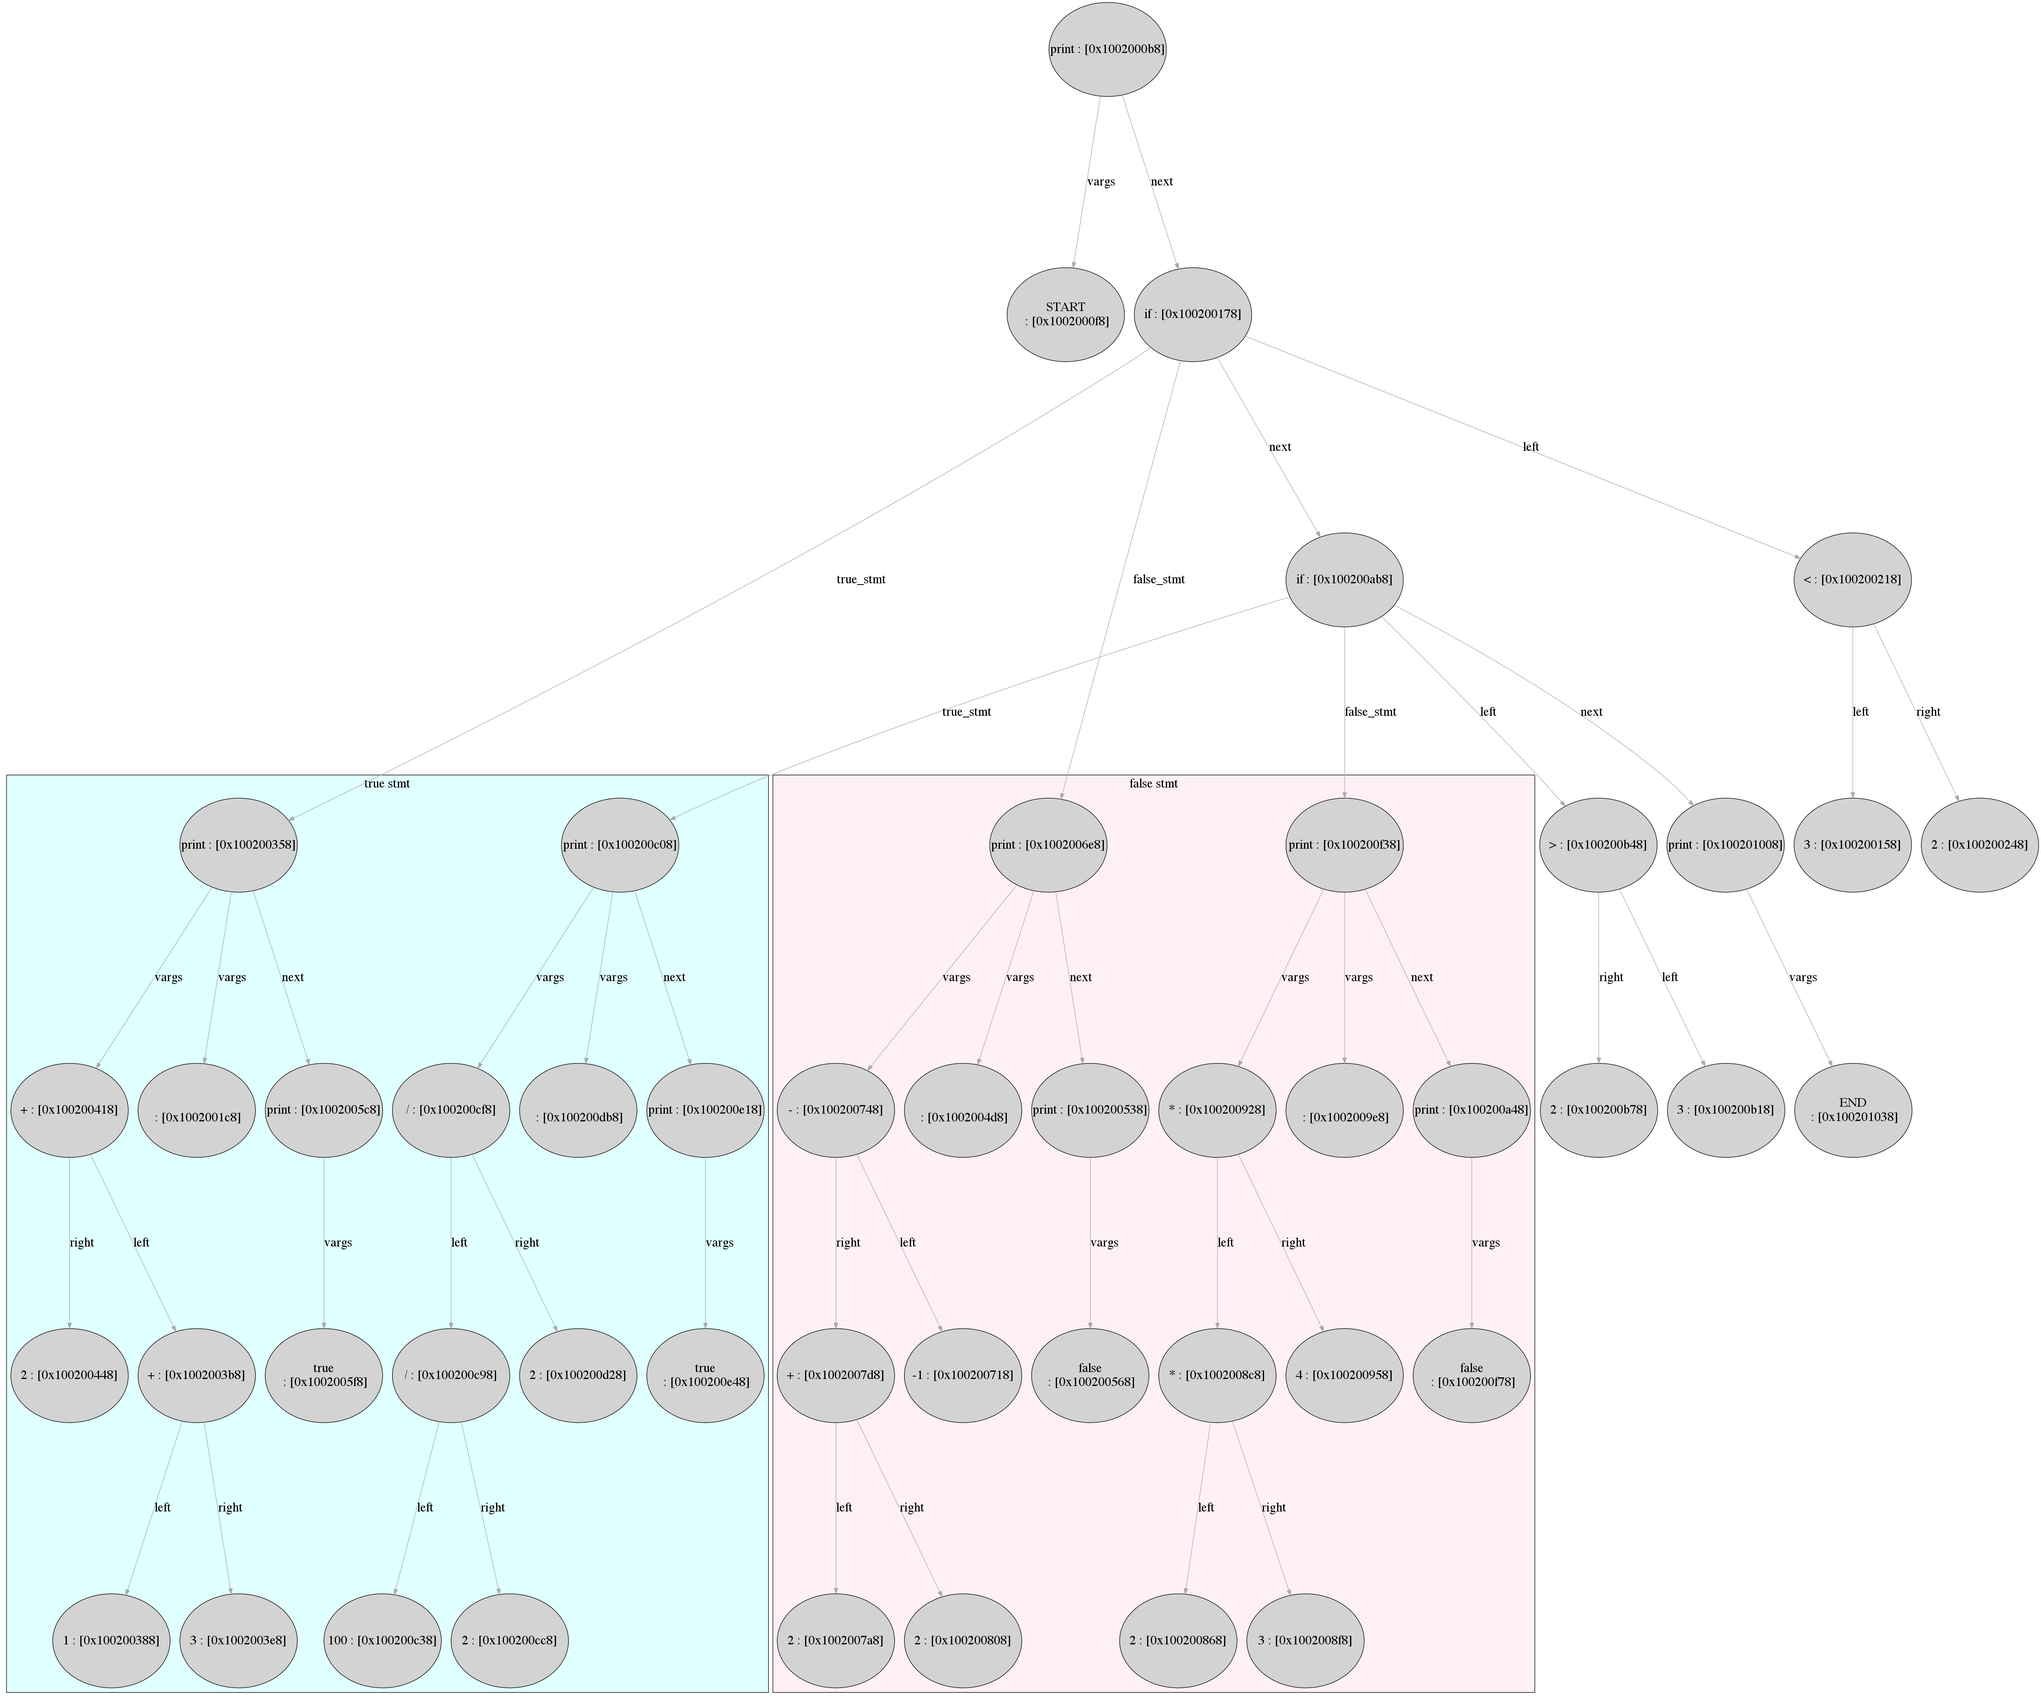
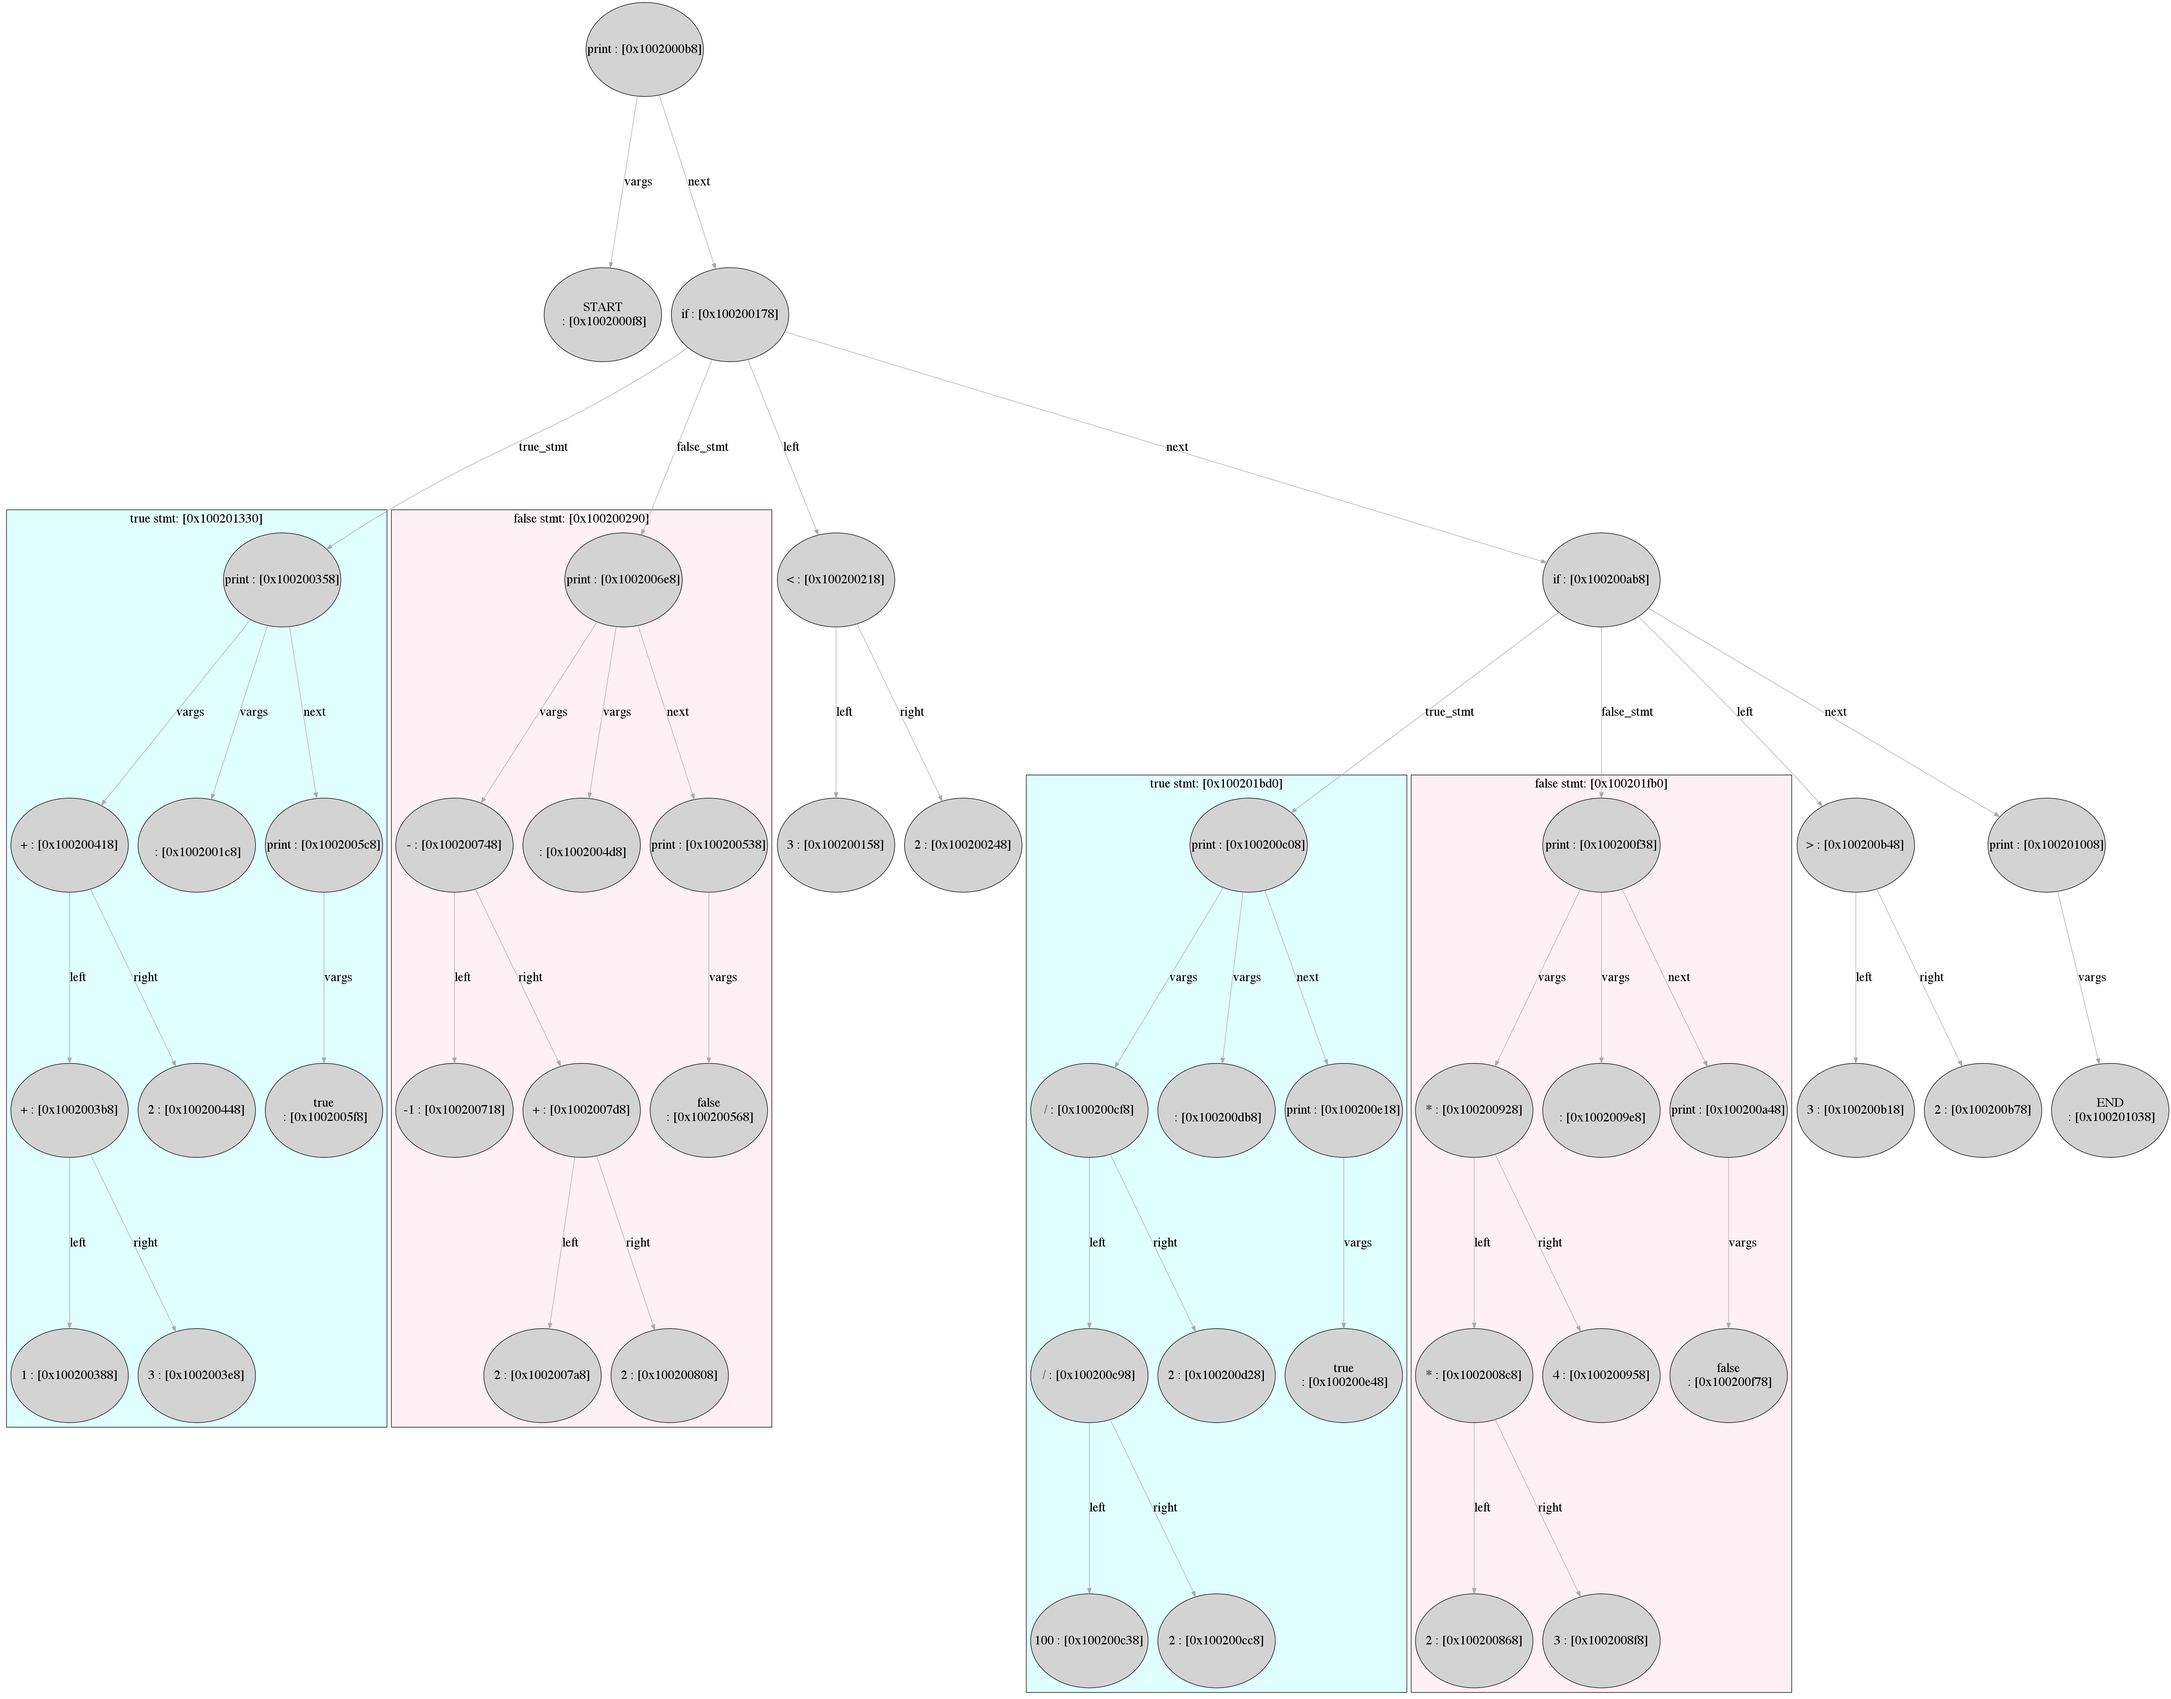
fixed graph debug

diff --git a/src/parse.cpp b/src/parse.cpp
@@ -2,7 +2,7 @@
 
 using namespace std;
 
-GPerlAST::GPerlAST(void)
+GPerlAST::GPerlAST(void) : cluster_num(0)
 {
 	root = NULL;
 	cur = NULL;
@@ -50,10 +50,13 @@ void GPerlAST::draw(GraphvizGraph *graph, GPerlCell *c, GraphvizNode *node)
 	GraphvizNode *right;
 	char buf[32] = {0};
 	if (c->type == IfStmt) {
-		GraphvizGraph *true_stmt_graph = graph->makeSubGraph("cluster0");
+		snprintf(buf, 32, "cluster%d", cluster_num);
+		GraphvizGraph *true_stmt_graph = graph->makeSubGraph(buf);
+		cluster_num++;
 		true_stmt_graph->set("fillcolor","#e0ffff");
 		true_stmt_graph->set("style","filled");
-		true_stmt_graph->set("label","true stmt");
+		snprintf(buf, 32, "true stmt: [%p]", c->true_stmt);
+		true_stmt_graph->set("label", buf);
 		true_stmt_graph->set("fontsize", "24");
 		GPerlCell *true_stmt = c->true_stmt->root;
 		const char *true_stmt_name = true_stmt->rawstr.c_str();
@@ -75,10 +78,13 @@ void GPerlAST::draw(GraphvizGraph *graph, GPerlCell *c, GraphvizNode *node)
 		}
 		if (c->false_stmt) {
 			prev_node = NULL;
-			GraphvizGraph *false_stmt_graph = graph->makeSubGraph("cluster1");
+			snprintf(buf, 32, "cluster%d", cluster_num);
+			GraphvizGraph *false_stmt_graph = graph->makeSubGraph(buf);
+			cluster_num++;
 			false_stmt_graph->set("fillcolor","#fff0f5");
 			false_stmt_graph->set("style","filled");
-			false_stmt_graph->set("label","false stmt");
+			snprintf(buf, 32, "false stmt: [%p]", c->false_stmt);
+			false_stmt_graph->set("label", buf);
 			false_stmt_graph->set("fontsize", "24");
 			GPerlCell *false_stmt = c->false_stmt->root;
 			const char *false_stmt_name = false_stmt->rawstr.c_str();

diff --git a/include/gperl.hpp b/include/gperl.hpp
@@ -152,6 +152,7 @@ class GraphvizEdge;
 class GPerlAST {
 public:
 	int size;
+	int cluster_num;
 	GPerlCell *root;
 	GPerlCell *cur;
 	GraphvizNode *root_node;
